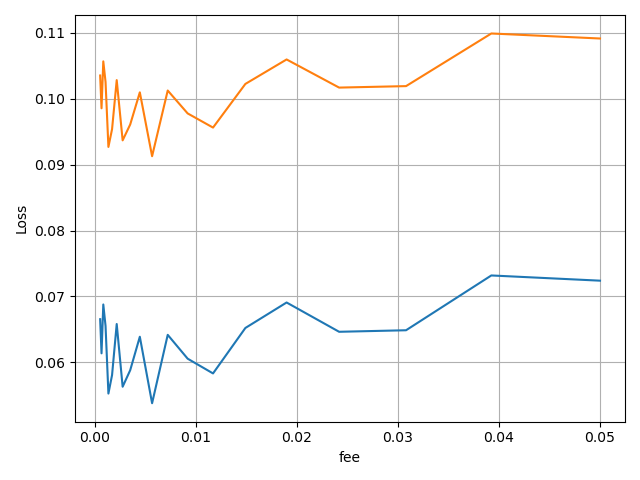
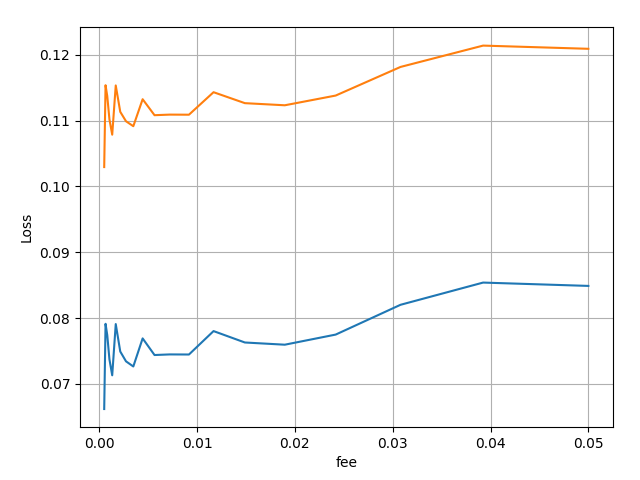
BNB sims updated

diff --git a/example_bnb/3_simulate_avg_loss.py b/example_bnb/3_simulate_avg_loss.py
@@ -1,0 +1,16 @@
+from numpy import linspace
+from libsimulate import scan_param, plot_losses
+
+
+if __name__ == '__main__':
+    results = scan_param(
+        'data/bnbusdt-1m.json.gz',
+        A=100,
+        range_size=[int(x) for x in linspace(4, 50, 10)],
+        fee=0.006,
+        Texp=600,
+        samples=20000, n_top_samples=20000,
+        min_loan_duration=1, max_loan_duration=1
+    )
+
+    plot_losses('N', [results[0]])
